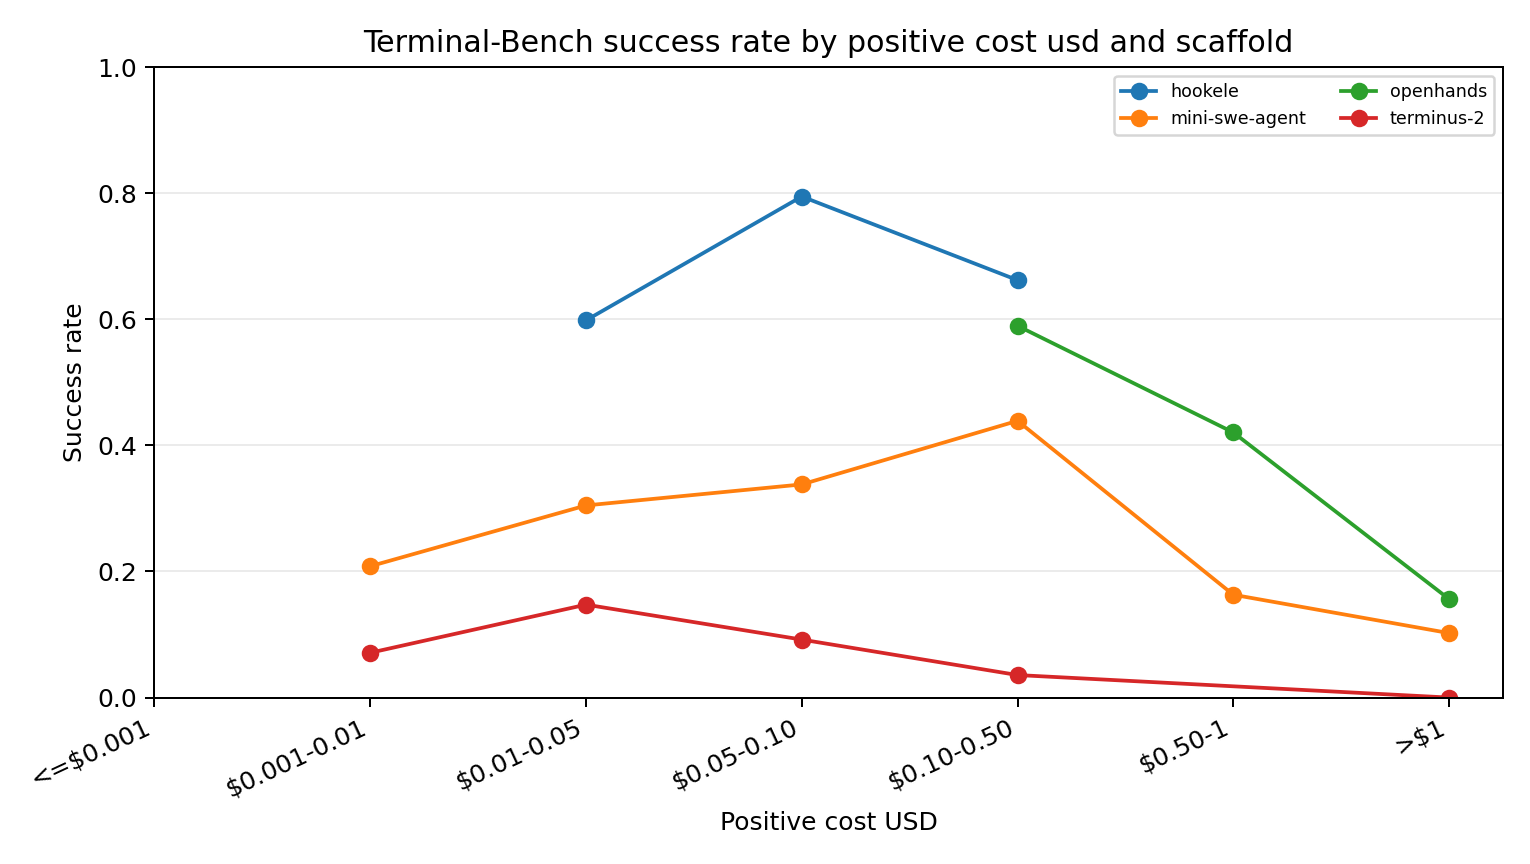
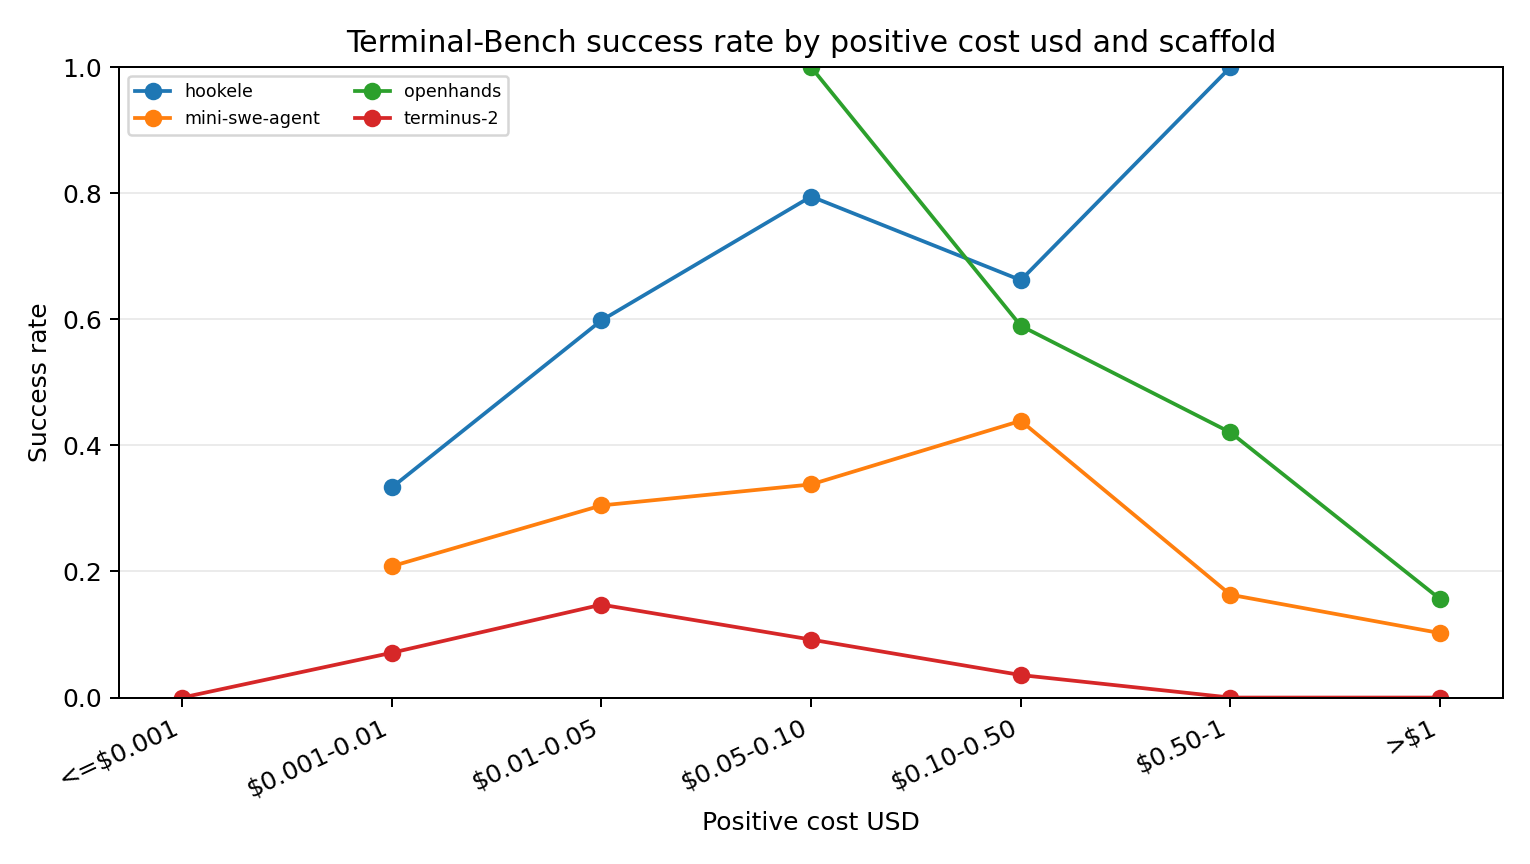
Removing minimal sample of 30 for plots

diff --git a/scripts/analyze_diminishing_returns.py b/scripts/analyze_diminishing_returns.py
@@ -75,7 +75,6 @@ def parse_args() -> argparse.Namespace:
     parser.add_argument("--input", type=Path, default=INPUT_DEFAULT)
     parser.add_argument("--out", type=Path, default=OUT_DEFAULT)
     parser.add_argument("--figures-dir", type=Path, default=FIGURES_DIR)
-    parser.add_argument("--min-bin-n", type=int, default=30)
     parser.add_argument(
         "--by-scaffold",
         action="store_true",
@@ -171,7 +170,7 @@ def bin_series(series: pd.Series, variable: str) -> pd.Categorical:
     )
 
 
-def build_effort_bins(df: pd.DataFrame, min_bin_n: int, group_column: str | None = None) -> pd.DataFrame:
+def build_effort_bins(df: pd.DataFrame, group_column: str | None = None) -> pd.DataFrame:
     if group_column is not None and group_column not in df.columns:
         raise ValueError(f"Cannot build grouped plots because {group_column!r} is missing.")
 
@@ -197,7 +196,6 @@ def build_effort_bins(df: pd.DataFrame, min_bin_n: int, group_column: str | None
                     "success_rate": passes / n if n else None,
                     "success_rate_ci95_low": ci_low,
                     "success_rate_ci95_high": ci_high,
-                    "low_support": n < min_bin_n,
                 }
                 if group_column is not None:
                     row.update({"group_column": group_column, "group_value": str(group_value)})
@@ -208,7 +206,6 @@ def build_effort_bins(df: pd.DataFrame, min_bin_n: int, group_column: str | None
 def plot_effort_bins(
     bins: pd.DataFrame,
     figures_dir: Path,
-    min_bin_n: int = 0,
     group_column: str | None = None,
 ) -> list[Path]:
     paths: list[Path] = []
@@ -222,7 +219,7 @@ def plot_effort_bins(
         if group_label is None:
             plot_overall_series(ax, subset)
         else:
-            subset = subset[subset["n"] >= min_bin_n].sort_values(["group_value", "bin_order"])
+            subset = subset.sort_values(["group_value", "bin_order"])
             for group_value, group in subset.groupby("group_value"):
                 ax.plot(group["bin_order"], group["success_rate"], marker="o", linewidth=1.5, label=group_value)
             ax.legend(fontsize=7, ncol=2)
@@ -264,15 +261,15 @@ def main() -> None:
 
     df = load_data(args.input)
     coverage = build_variable_coverage(df)
-    bins = build_effort_bins(df, args.min_bin_n)
+    bins = build_effort_bins(df)
     figures = plot_effort_bins(bins, args.figures_dir)
     grouped_figures: list[Path] = []
     if args.by_scaffold:
-        scaffold_bins = build_effort_bins(df, args.min_bin_n, group_column="scaffold")
-        grouped_figures.extend(plot_effort_bins(scaffold_bins, args.figures_dir, args.min_bin_n, "scaffold"))
+        scaffold_bins = build_effort_bins(df, group_column="scaffold")
+        grouped_figures.extend(plot_effort_bins(scaffold_bins, args.figures_dir, "scaffold"))
     if args.by_model:
-        model_bins = build_effort_bins(df, args.min_bin_n, group_column="model_dir")
-        grouped_figures.extend(plot_effort_bins(model_bins, args.figures_dir, args.min_bin_n, "model_dir"))
+        model_bins = build_effort_bins(df, group_column="model_dir")
+        grouped_figures.extend(plot_effort_bins(model_bins, args.figures_dir, "model_dir"))
 
     bins_path = args.out / "diminishing_returns_effort_bins.csv"
     coverage_path = args.out / "diminishing_returns_variable_coverage.csv"

diff --git a/reports/diminishing_returns_analysis.md b/reports/diminishing_returns_analysis.md
@@ -16,7 +16,7 @@ How does the probability of Terminal-Bench success vary with observed trajectory
 
 ## Method
 
-This analysis groups completed trajectories into effort bins and computes the empirical success rate in each bin. Success rates are reported with Wilson 95% confidence intervals to show uncertainty around bin-level estimates. Bins with fewer than 30 trajectories are flagged as low-support and interpreted cautiously. The `n < 30` rule is a pragmatic warning flag, not a statistically discovered threshold.
+This analysis groups completed trajectories into effort bins and computes the empirical success rate in each bin. Success rates are reported with Wilson 95% confidence intervals to show uncertainty around bin-level estimates.
 
 This analysis is post-hoc: it uses completed trajectories and final effort values. It can identify low-return regions in completed runs, but it does not prove that an online agent should have stopped earlier.
 

diff --git a/README.md b/README.md
@@ -173,7 +173,7 @@ manually.
 - `data/processed/diminishing_returns_effort_bins.csv`: trajectory success rates
   with Wilson confidence intervals across effort bins for steps,
   scaffold-normalized steps, commands, tool calls, tokens, duration, and positive
-  reported cost, with bins under 30 trajectories flagged as low-support.
+  reported cost.
 - `data/processed/diminishing_returns_variable_coverage.csv`: complete-case,
   positive, zero, and distribution coverage for each effort variable, including
   the positive-cost subset.
